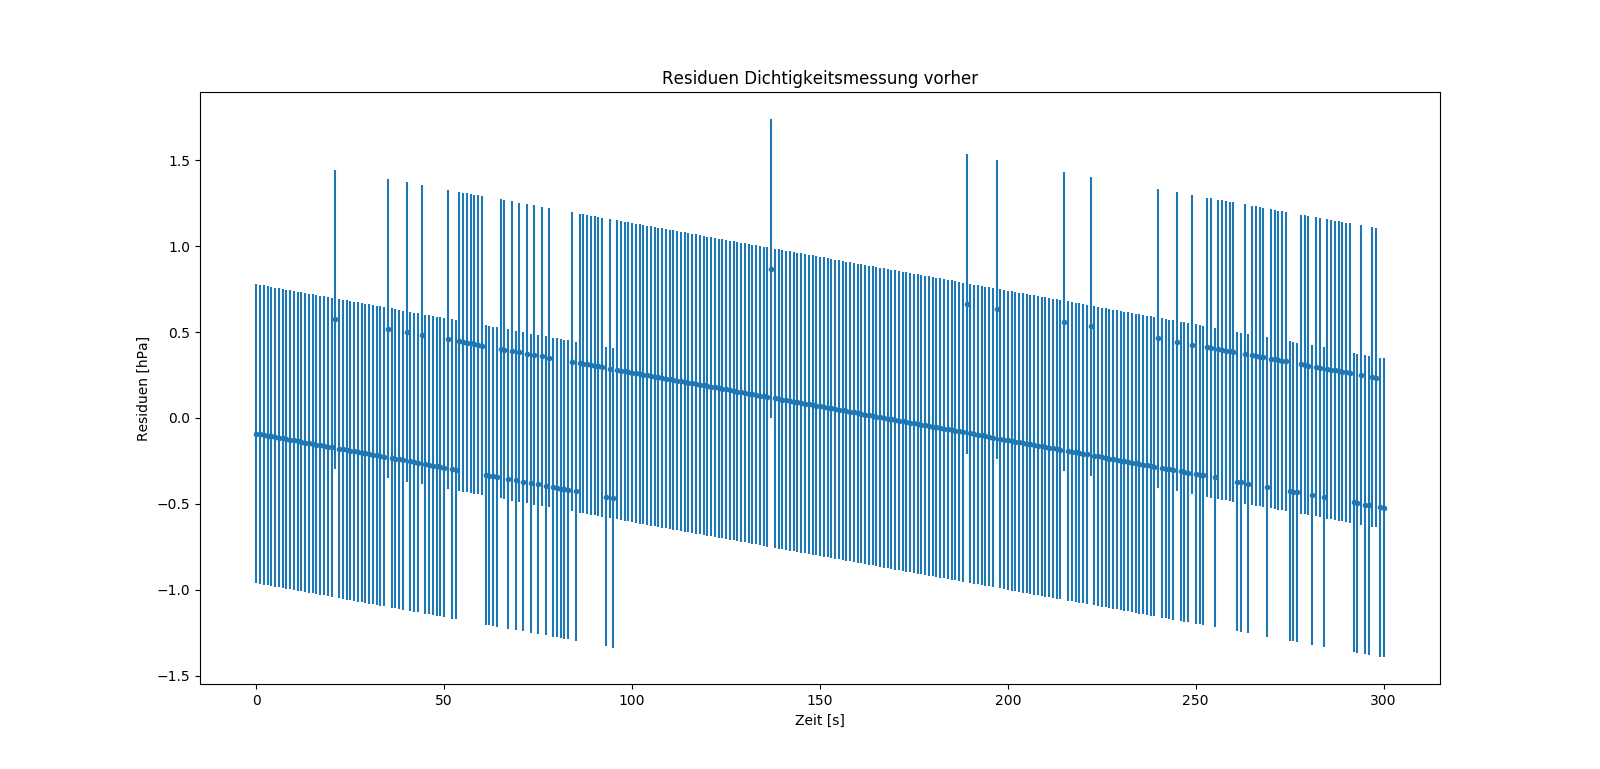
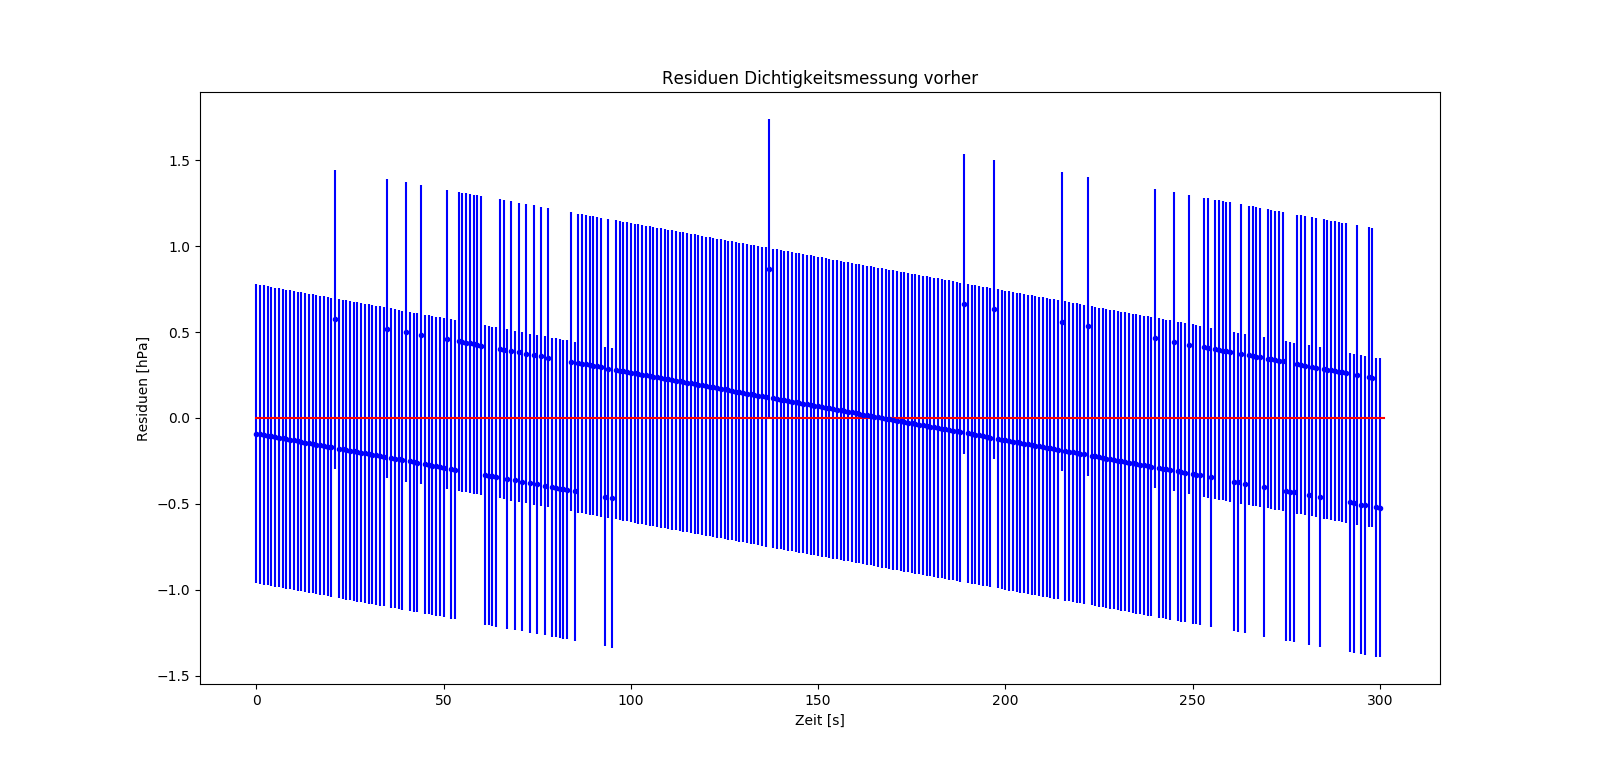
Corrected Residuen

diff --git a/Thermodynamik/Python/Dichtigkeit.py b/Thermodynamik/Python/Dichtigkeit.py
@@ -15,8 +15,8 @@ import Rauschmessung as Rm
 start_time=timeit.default_timer()
 
 #Lese alle Datensätze ein
-M_S_1 = prak.lese_lab_datei('lab/Dichtigkeitsmessung_vorher.lab')
-p_v = M_S_1[:, 4]
+M_S_1 = prak.lese_lab_datei('CASSY/Dichtigkeitsmessung_vorher.lab')
+p_v = M_S_1[:, 2]
 t_v = M_S_1[:, 1]
 
 M_S_2 = prak.lese_lab_datei('lab/Dichtigkeitsmessung_nachher_2.lab')
@@ -37,6 +37,8 @@ leckrate_n, Fehler_n, b_n, eb_n, chiq_n, var_n = func(t_n, p_n)
 #plotte Residuen für Messung vorher
 X = t_v
 Y = np.full(p_v.size, 1)
+x = np.array([0, p_v.size])
+y = np.array([0.0, 0.0])
 for i in range(p_v.size):
     Y[i] = p_v[i] - leckrate_v * t_v[i] - b_v
 Y_err = np.full(p_v.size, np.sqrt(var_v**2 + 0.75**2))
@@ -44,11 +46,14 @@ fig1, ax1 = plt.subplots()
 ax1.set_xlabel("Zeit [s]")
 ax1.set_ylabel("Residuen [hPa]")
 ax1.set_title("Residuen Dichtigkeitsmessung vorher")
-plt.errorbar(X, Y, yerr=Y_err, fmt='.')
+plt.plot(x, y, color='r')
+plt.errorbar(X, Y, yerr=Y_err, fmt='.', color='b')
 fig1.show()
 
 #plotte Residuen für Messung nachher
 X_n = t_n
+x = np.array([0, p_v.size])
+y = np.array([0.0, 0.0])
 Y_n = np.full(p_n.size, 1)
 for i in range(p_n.size):
     Y_n[i] = p_n[i] - leckrate_n * t_n[i] - b_n
@@ -57,7 +62,8 @@ fig2, ax1 = plt.subplots()
 ax1.set_xlabel("Zeit [s]")
 ax1.set_ylabel("Residuen [hPa]")
 ax1.set_title("Residuen Dichtigkeitsmessung nachher")
-plt.errorbar(X_n, Y_n, yerr=Y_n_err, fmt='.')
+plt.plot(x, y, color='r')
+plt.errorbar(X_n, Y_n, yerr=Y_n_err, fmt='.', color='b')
 fig2.show()
 
 #plotte lineare Regression an Messung vorher
